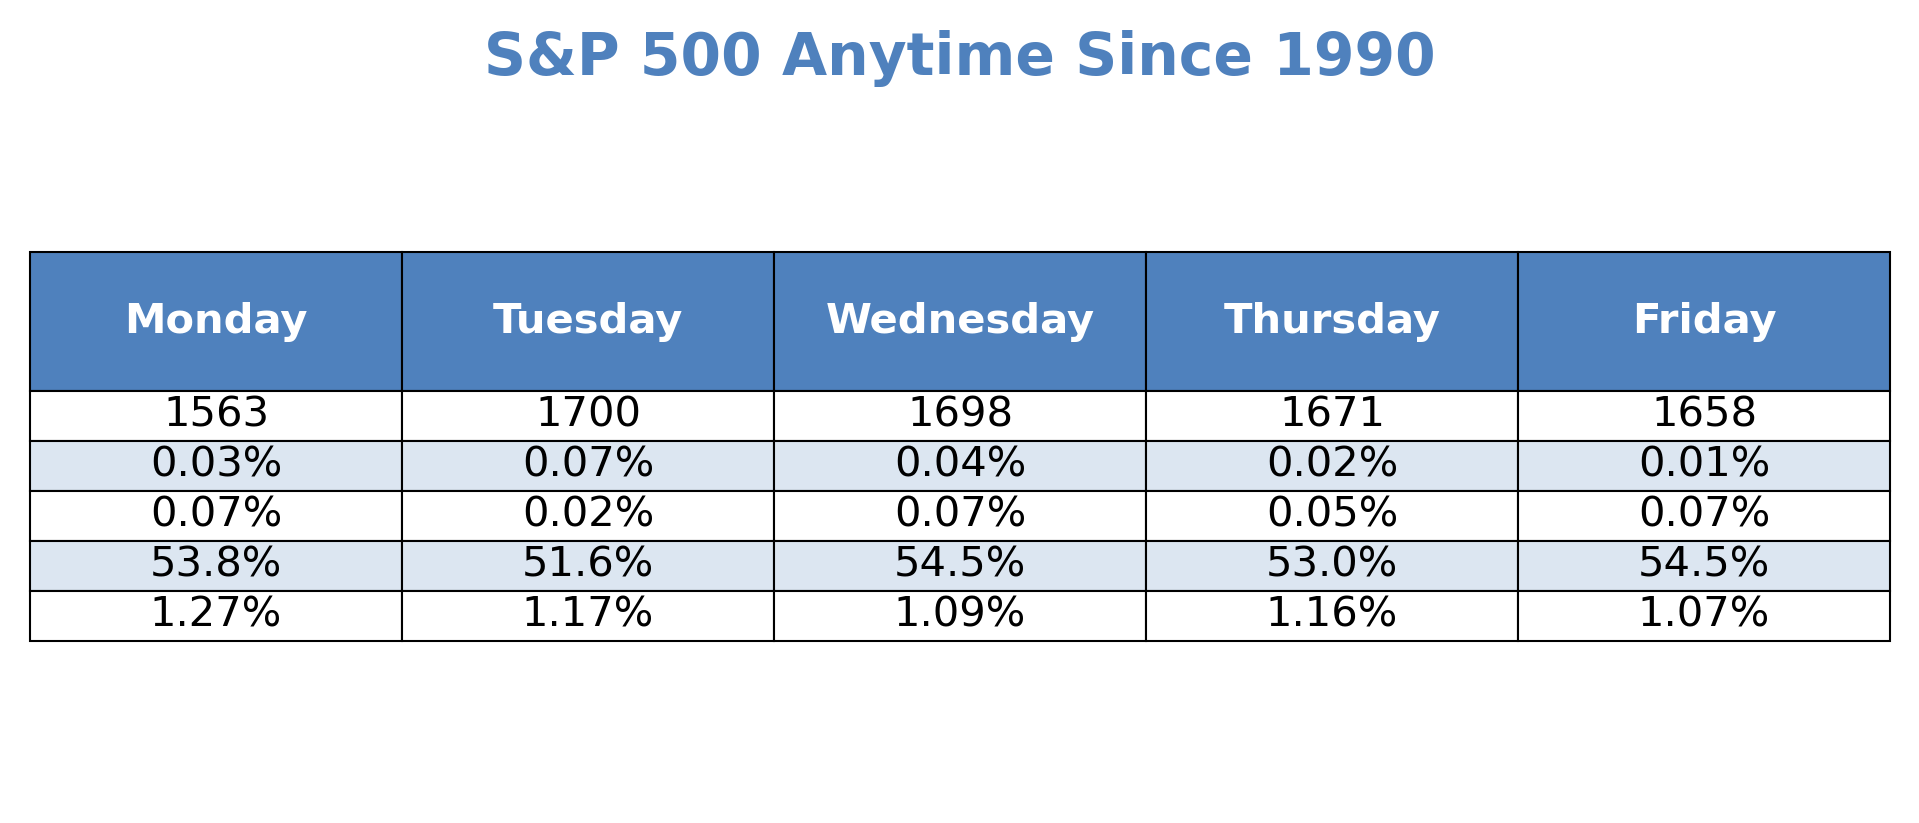
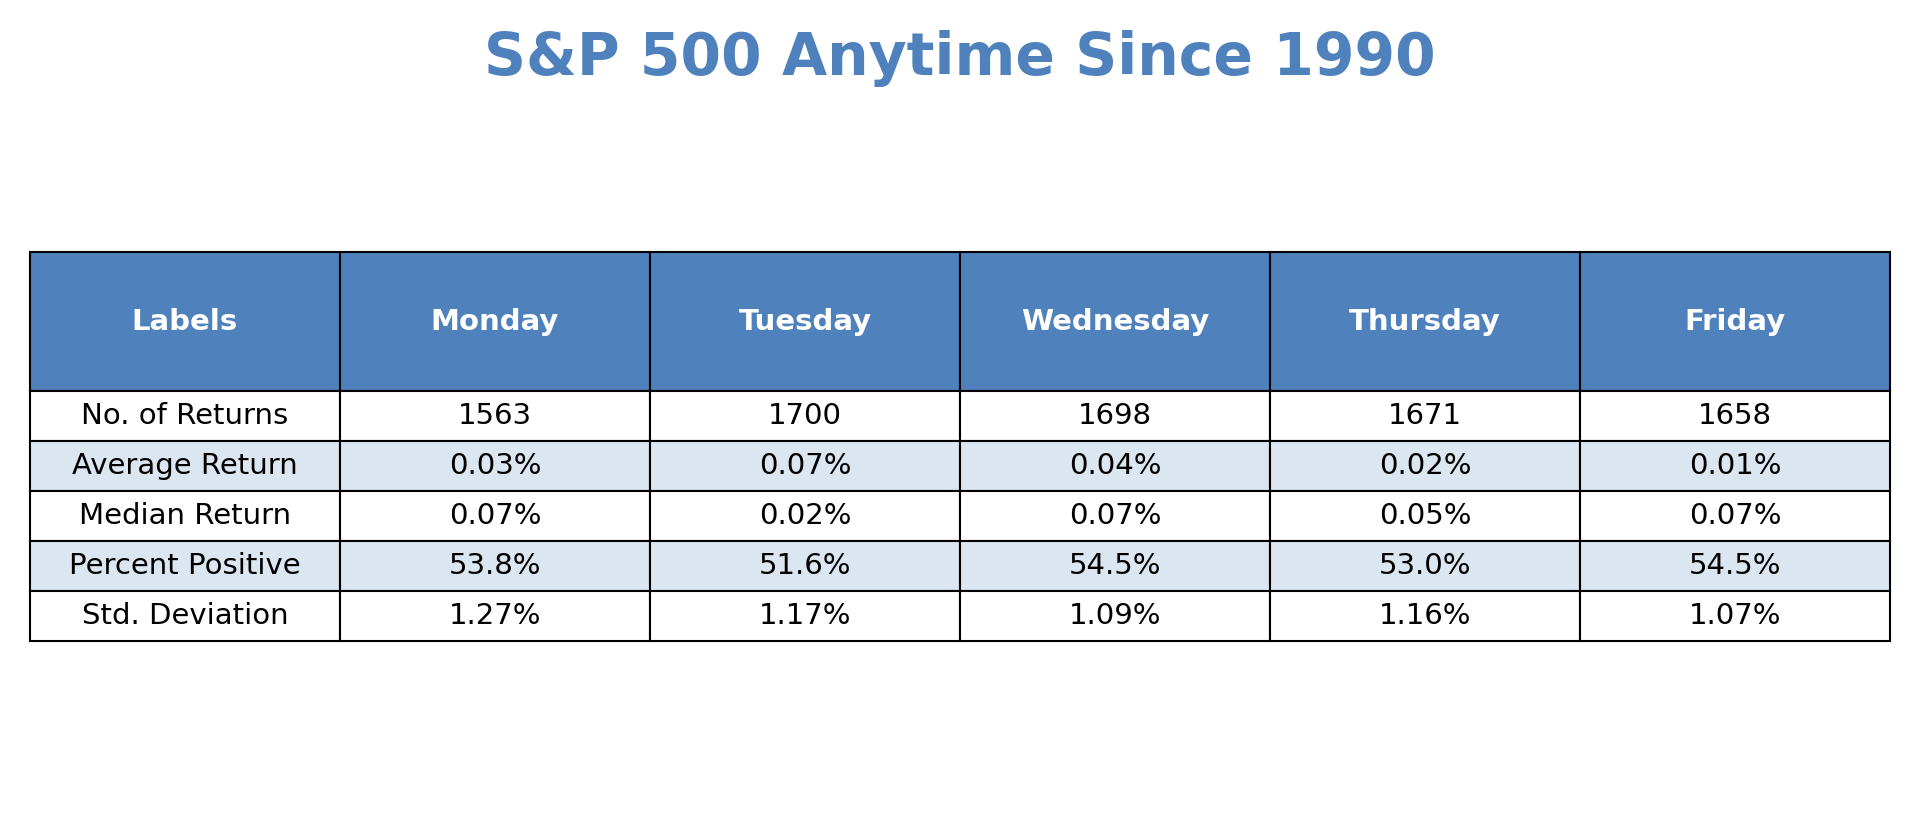
checking functionality

diff --git a/IST/TIC/market_trend_thxgiving/tables_alternating colors.py b/IST/TIC/market_trend_thxgiving/tables_alternating colors.py
@@ -2,42 +2,54 @@ import matplotlib.pyplot as plt
 import pandas as pd
 import os
 
+# Define the data tables with labels
 data_table1 = pd.DataFrame({
-    'Week After\nBlack Friday': ['32', '0.63%', '0.39%', '65.6%', '2.08%'],
+    'Labels': ['No. of Returns', 'Average Return', 'Median Return', 'Percent Positive', 'Std. Deviation'],
+    'Week After Black Friday': ['32', '0.63%', '0.39%', '65.6%', '2.08%'],
     'All Weeks': ['1716', '0.17%', '0.27%', '56.5%', '2.34%']
-}, index=['No. of Returns', 'Average Return', 'Median Return', 'Percent Positive', 'Std. Deviation'])
+})
 
 data_table2 = pd.DataFrame({
+    'Labels': ['No. of Returns', 'Average Return', 'Median Return', 'Percent Positive', 'Std. Deviation'],
     'Monday': ['32', '-0.23%', '-0.16%', '40.6%', '1.94%'],
     'Tuesday': ['32', '0.10%', '-0.01%', '50.0%', '1.09%'],
     'Wednesday': ['32', '0.41%', '0.03%', '53.1%', '1.27%'],
     'Thursday': ['32', '-0.21%', '-0.11%', '40.6%', '0.97%'],
     'Friday': ['32', '0.58%', '0.42%', '78.1%', '0.95%']
-}, index=['No. of Returns', 'Average Return', 'Median Return', 'Percent Positive', 'Std. Deviation'])
+})
 
-data_table2_anytime = pd.DataFrame({
+data_table3 = pd.DataFrame({
+    'Labels': ['No. of Returns', 'Average Return', 'Median Return', 'Percent Positive', 'Std. Deviation'],
     'Monday': ['1563', '0.03%', '0.07%', '53.8%', '1.27%'],
     'Tuesday': ['1700', '0.07%', '0.02%', '51.6%', '1.17%'],
     'Wednesday': ['1698', '0.04%', '0.07%', '54.5%', '1.09%'],
     'Thursday': ['1671', '0.02%', '0.05%', '53.0%', '1.16%'],
     'Friday': ['1658', '0.01%', '0.07%', '54.5%', '1.07%']
-}, index=['No. of Returns', 'Average Return', 'Median Return', 'Percent Positive', 'Std. Deviation'])
+})
 
-data_table3 = pd.DataFrame({
-    'Black Friday\nWeek\nDown 1%+': ['6', '-4.58%', '-4.74%', '33.3%', '11.00%'],
-    'Black Friday\nWeek\nFlat': ['14', '2.23%', '1.76%', '71.4%', '4.63%'],
-    'Black Friday\nWeek\nUp 1%+': ['11', '3.88%', '5.21%', '81.8%', '6.53%']
-}, index=['No. of Returns', 'Average Return', 'Median Return', 'Percent Positive', 'Std. Deviation'])
+data_table4 = pd.DataFrame({
+    'Labels': ['No. of Returns', 'Average Return', 'Median Return', 'Percent Positive', 'Std. Deviation'],
+    'Black Friday Week Down 1%+': ['6', '-4.58%', '-4.74%', '33.3%', '11.00%'],
+    'Black Friday Week Flat': ['14', '2.23%', '1.76%', '71.4%', '4.63%'],
+    'Black Friday Week Up 1%+': ['11', '3.88%', '5.21%', '81.8%', '6.53%']
+})
 
+data_table5 = pd.DataFrame({
+    'Labels': ['No. of Returns', 'Average Return', 'Median Return', 'Percent Positive', 'Std. Deviation'],
+    'Black Friday Week Down 1%+': ['6', '1.60%', '1.75%', '83.3%', '3.24%'],
+    'Black Friday Week Flat': ['14', '1.06%', '1.08%', '78.6%', '1.78%'],
+    'Black Friday Week Up 1%+': ['11', '0.99%', '1.19%', '72.7%', '4.49%']
+})
 
 table_styles = {
     "header_bg": "#4F81BD",
     "header_text_color": "white",
-    "header_fontsize": 10,
-    "cell_fontsize": 10,
+    "header_fontsize": 20,
+    "cell_fontsize": 20,
     "cell_bg": "#DCE6F1",
 }
 
+# Function to plot a table with alternating row colors
 def plot_table_with_alternating_rows(df, title, size=(8, 3), header_height=0.2):
     fig, ax = plt.subplots(figsize=size)
     ax.axis('off')
@@ -56,23 +68,24 @@ def plot_table_with_alternating_rows(df, title, size=(8, 3), header_height=0.2):
             cell.set_fontsize(table_styles["cell_fontsize"])
     return fig
 
+# Plot and save each table as an image
 fig1 = plot_table_with_alternating_rows(data_table1, "S&P 500 Weekly Returns Since 1990", size=(6, 2.5), header_height=0.3)
 fig2 = plot_table_with_alternating_rows(data_table2, "S&P 500 Week After Black Friday", size=(8, 3), header_height=0.2)
-fig3 = plot_table_with_alternating_rows(data_table2_anytime, "S&P 500 Anytime Since 1990", size=(8, 3), header_height=0.2)
-fig4 = plot_table_with_alternating_rows(data_table3, "S&P 500 Next Three Months", size=(8, 3), header_height=0.3)
+fig3 = plot_table_with_alternating_rows(data_table3, "S&P 500 Anytime Since 1990", size=(8, 3), header_height=0.2)
+fig4 = plot_table_with_alternating_rows(data_table4, "S&P 500 Next Three Months", size=(8, 3), header_height=0.3)
+fig5 = plot_table_with_alternating_rows(data_table5, "S&P 500 Rest of Year Returns", size=(8, 3), header_height=0.3)
 
+# Output paths for each table
 output_paths = [
     'C:/Users/Tomas/OneDrive/work/IST/TIC/market_trend_thxgiving/table1.png', 
     'C:/Users/Tomas/OneDrive/work/IST/TIC/market_trend_thxgiving/table2.png',
     'C:/Users/Tomas/OneDrive/work/IST/TIC/market_trend_thxgiving/table3.png',
-    'C:/Users/Tomas/OneDrive/work/IST/TIC/market_trend_thxgiving/table4.png'
+    'C:/Users/Tomas/OneDrive/work/IST/TIC/market_trend_thxgiving/table4.png',
+    'C:/Users/Tomas/OneDrive/work/IST/TIC/market_trend_thxgiving/table5.png'
 ]
 
-# Ensure directories exist and save figures
-for fig, path in zip([fig1, fig2, fig3, fig4], output_paths):
-    directory = os.path.dirname(path)
-    if not os.path.exists(directory):
-        os.makedirs(directory)
+# Save each figure
+for fig, path in zip([fig1, fig2, fig3, fig4, fig5], output_paths):
     try:
         fig.savefig(path, bbox_inches="tight", dpi=300)
         print(f"Figure saved successfully at {path}")
@@ -80,3 +93,5 @@ for fig, path in zip([fig1, fig2, fig3, fig4], output_paths):
         print(f"Error saving figure at {path}: {e}")
 
 plt.close('all')
+
+output_paths

diff --git a/IST/TIC/market_trend_thxgiving/total_spending.py b/IST/TIC/market_trend_thxgiving/total_spending.py
@@ -1,0 +1,19 @@
+# make an histogram of the total spending of the customers in the dataset
+# The histogram is saved in the folder IST/TIC/market_trend_thxgiving/figures
+
+# Importing necessary libraries
+import pandas as pd
+import matplotlib.pyplot as plt
+
+# Load the dataset
+data = pd.read_csv('Number of shoppers.csv')
+
+# Plotting the histogram
+plt.figure(figsize=(10, 6))
+plt.hist(data['Purchase'], bins=30, color='skyblue', edgecolor='black')
+plt.title('Total Spending of Customers', fontsize=16)
+plt.xlabel('Purchase Amount', fontsize=12)
+plt.ylabel('Frequency', fontsize=12)
+plt.grid(axis='y', alpha=0.75)
+plt.show()
+
